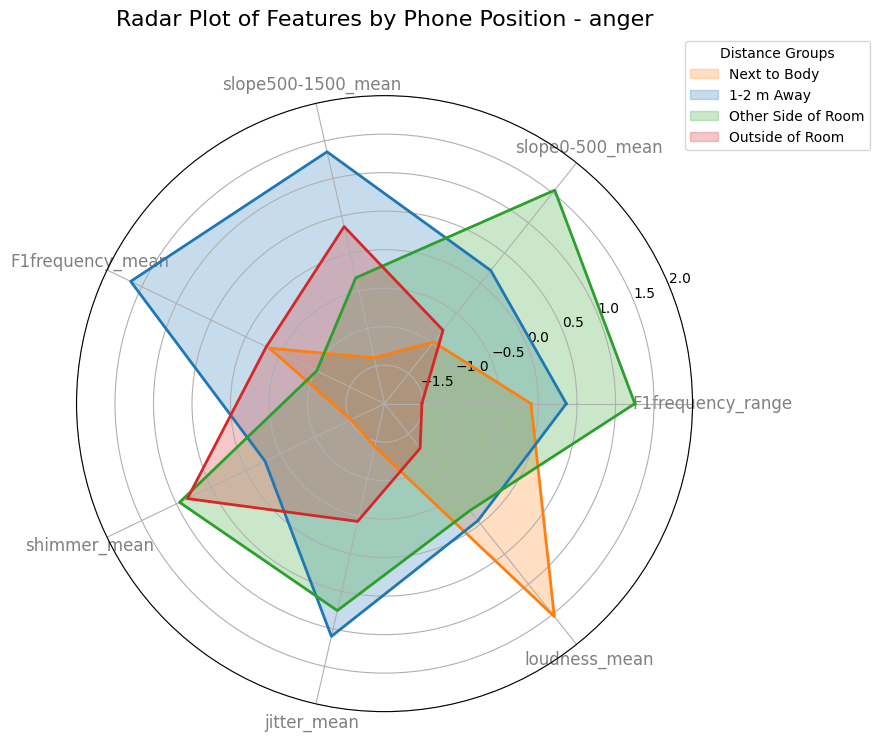
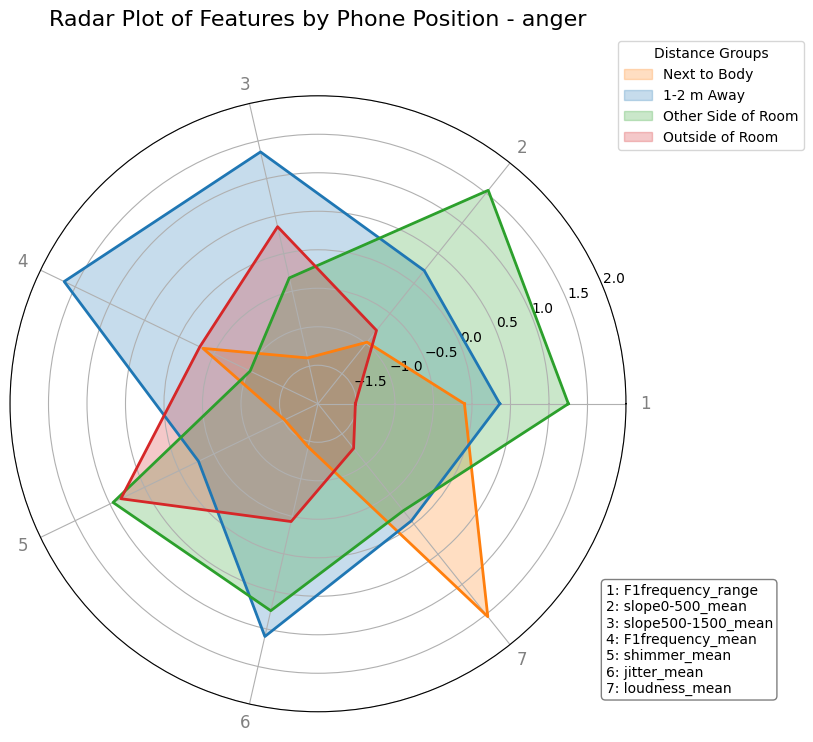
added plots
1. low and high arousal per distance radar plots
2. adjust the axis labels

diff --git a/radarPlot.py b/radarPlot.py
@@ -73,11 +73,14 @@ plt.tight_layout()
 plt.savefig(os.path.join(results_folder, 'heatmap_feature_averages.png'), bbox_inches='tight')
 plt.close()
 
-def create_and_save_radar_plot(data, categories, title, filename):
+def create_radar_plot_emotion(data, categories, title, filename):
     num_vars = len(categories)
     angles = [n / float(num_vars) * 2 * pi for n in range(num_vars)]
     angles += angles[:1]  # Complete the circle
     
+    # Number the axes
+    axis_labels = list(range(1, len(categories) + 1))
+
     fig, ax = plt.subplots(figsize=(8, 6), subplot_kw=dict(polar=True))
     unique_categories = data[category_column].unique()
     colors = plt.cm.tab10(range(len(unique_categories)))
@@ -89,11 +92,19 @@ def create_and_save_radar_plot(data, categories, title, filename):
         ax.fill(angles, values, alpha=0.25, color=color, label=row[category_column])
         ax.plot(angles, values, linewidth=2, color=color)
 
-    plt.xticks(angles[:-1], categories, color='grey', size=12)
+    plt.xticks(angles[:-1], axis_labels, color='grey', size=12)
     ax.yaxis.grid(True)
     ax.set_ylim(-2.2, 2) # Adjust based on the data
     plt.title(title, size=16, y=1.1)
-    plt.legend(loc='upper right', bbox_to_anchor=(1.3, 1.1))
+    
+    # legend for emotions
+    plt.legend(loc='upper right', bbox_to_anchor=(1.3, 1.1)) 
+    
+    # legend for features
+    legend_elements = [f"{i}: {category}" for i, category in enumerate(categories, 1)]
+    legend_text = "\n".join(legend_elements)
+    plt.gcf().text(0.8, 0.2, legend_text, fontsize=10, va='center', bbox=dict(boxstyle="round", facecolor="white", alpha=0.5))
+
     plt.savefig(os.path.join(results_folder, filename),bbox_inches='tight')
     plt.close()
 
@@ -111,7 +122,7 @@ groupings = {
 # Generate radar plots for each grouping
 for group_name, emotions in groupings.items():
     group_data = normalized_data[normalized_data[category_column].isin(emotions)]
-    create_and_save_radar_plot(
+    create_radar_plot_emotion(
         group_data, features, f"Radar Plot: {group_name}", f"radar_plot_{group_name.lower().replace(' ', '_')}.png"
     )
 
@@ -163,6 +174,9 @@ def create_radar_plot_distance(data, categories, title, filename):
     angles = [n / float(num_vars) * 2 * pi for n in range(num_vars)]
     angles += angles[:1] 
 
+    # Number the axes
+    axis_labels = list(range(1, len(categories) + 1))
+
     # Sorting the groups to control legend order
     sorted_data = data.sort_values(by='distance_group', key=lambda x: x.map({
         'Next to Body': 1,
@@ -181,11 +195,17 @@ def create_radar_plot_distance(data, categories, title, filename):
         ax.plot(angles, values, linewidth=2, color=colors[i])
 
 
-    plt.xticks(angles[:-1], categories, color='grey', size=12)
+    plt.xticks(angles[:-1], axis_labels, color='grey', size=12)
     ax.yaxis.grid(True)
     ax.set_ylim(-2, 1.7) # Adjust based on the data
     plt.title(title, size=16, y=1.1)
     plt.legend(loc='upper right', bbox_to_anchor=(1.3, 1.1), title="Distance Groups")
+
+    # legend for features
+    legend_elements = [f"{i}: {category}" for i, category in enumerate(categories, 1)]
+    legend_text = "\n".join(legend_elements)
+    plt.gcf().text(0.8, 0.2, legend_text, fontsize=10, va='center', bbox=dict(boxstyle="round", facecolor="white", alpha=0.5))
+
     plt.savefig(os.path.join(results_folder, filename), bbox_inches='tight')
     plt.close()
 
@@ -197,10 +217,13 @@ create_radar_plot_distance(
 )
 
 # Function to create radar plot for a single emotion
-def create_emotion_distance_radar(data, emotion, categories, title, filename):
+def create_radar_distance_per_emotion(data, emotion, categories, title, filename):
     num_vars = len(categories)
     angles = [n / float(num_vars) * 2 * pi for n in range(num_vars)]
     angles += angles[:1]
+
+    # Number the axes
+    axis_labels = list(range(1, len(categories) + 1))
 
     # Sorting the groups to control legend order
     sorted_data = data.sort_values(by='distance_group', key=lambda x: x.map({
@@ -219,11 +242,17 @@ def create_emotion_distance_radar(data, emotion, categories, title, filename):
         ax.fill(angles, values, alpha=0.25, color=colors[i], label=row['distance_group'])
         ax.plot(angles, values, linewidth=2, color=colors[i])
 
-    plt.xticks(angles[:-1], categories, color='grey', size=12)
+    plt.xticks(angles[:-1], axis_labels, color='grey', size=12)
     ax.yaxis.grid(True)
     ax.set_ylim(-2, 2)  # Adjust based on the data
     plt.title(f"{title} - {emotion}", size=16, y=1.1)
     plt.legend(loc='upper right', bbox_to_anchor=(1.3, 1.1), title="Distance Groups")
+    
+    # legend for features
+    legend_elements = [f"{i}: {category}" for i, category in enumerate(categories, 1)]
+    legend_text = "\n".join(legend_elements)
+    plt.gcf().text(0.8, 0.2, legend_text, fontsize=10, va='center', bbox=dict(boxstyle="round", facecolor="white", alpha=0.5))
+
     plt.savefig(os.path.join(results_folder, filename), bbox_inches='tight')
     plt.close()
 
@@ -244,7 +273,7 @@ for emotion in unique_emotions:
     normalized_emotion_data = pd.concat([emotion_distance_group_data['distance_group'], normalized_emotion_features], axis=1)
 
     # Create radar plot for the emotion
-    create_emotion_distance_radar(
+    create_radar_distance_per_emotion(
         normalized_emotion_data,
         emotion,
         features,
@@ -301,3 +330,91 @@ scatter_plot_gemaps(
     "Scatter Plot of GeMAPS Features (Colored by Emotion, Shaped by Distance)", 
     "scatter_plot_gemaps_emotion_distance.png"
 )
+
+def create_radar_emotions_per_distance(data, categories, distance_group, title, filename):
+    num_vars = len(categories)
+    angles = [n / float(num_vars) * 2 * pi for n in range(num_vars)]
+    angles += angles[:1]  # Complete the circle
+
+    # Number the axes
+    axis_labels = list(range(1, len(categories) + 1))
+
+    fig, ax = plt.subplots(figsize=(8, 6), subplot_kw=dict(polar=True))
+    unique_categories = data[category_column].unique()
+    colors = plt.cm.tab10(range(len(unique_categories)))
+
+    for i, row in data.iterrows():
+        values = row.drop(category_column).values.flatten().tolist()
+        values += values[:1]
+        color = colors[list(unique_categories).index(row[category_column])]
+        ax.fill(angles, values, alpha=0.25, color=color, label=row[category_column])
+        ax.plot(angles, values, linewidth=2, color=color)
+
+    plt.xticks(angles[:-1], axis_labels, color='grey', size=12)
+    ax.yaxis.grid(True)
+    ax.set_ylim(-2.2, 2)  # Adjust based on the data
+    plt.title(f"{title} - {distance_group}", size=16, y=1.1)
+    plt.legend(loc='upper right', bbox_to_anchor=(1.3, 1.1), title="Emotions")
+
+    # legend for features
+    legend_elements = [f"{i}: {category}" for i, category in enumerate(categories, 1)]
+    legend_text = "\n".join(legend_elements)
+    plt.gcf().text(0.8, 0.2, legend_text, fontsize=10, va='center', bbox=dict(boxstyle="round", facecolor="white", alpha=0.5))
+
+    plt.savefig(os.path.join(results_folder, filename), bbox_inches='tight')
+    plt.close()
+
+# Loop through each distance group and create a radar plot for each
+distance_groups = data['distance_group'].unique()
+
+for group in distance_groups:
+    # Filter data for the specific distance group
+    group_data = data[data['distance_group'] == group]
+
+    # High Arousal Emotions
+    high_arousal_data = group_data[group_data[category_column].isin(groupings['High Arousal'])]
+    if not high_arousal_data.empty:
+        # Group by emotion and calculate mean feature values
+        high_arousal_grouped = high_arousal_data.groupby(category_column)[features].mean().reset_index()
+        
+        # Normalize the data for radar plotting
+        normalized_high_arousal_features = pd.DataFrame(
+            scaler.fit_transform(high_arousal_grouped[features]),
+            columns=features
+        )
+        normalized_high_arousal_data = pd.concat(
+            [high_arousal_grouped[category_column], normalized_high_arousal_features], axis=1
+        )
+
+        # Create radar plot for high arousal
+        create_radar_emotions_per_distance(
+            normalized_high_arousal_data,
+            features,
+            group,
+            "Radar Plot of Features by High Arousal Emotions",
+            f"radar_plot_high_arousal_{group.lower().replace(' ', '_')}.png"
+        )
+
+    # Low Arousal Emotions
+    low_arousal_data = group_data[group_data[category_column].isin(groupings['Low Arousal'])]
+    if not low_arousal_data.empty:
+        # Group by emotion and calculate mean feature values
+        low_arousal_grouped = low_arousal_data.groupby(category_column)[features].mean().reset_index()
+        
+        # Normalize the data for radar plotting
+        normalized_low_arousal_features = pd.DataFrame(
+            scaler.fit_transform(low_arousal_grouped[features]),
+            columns=features
+        )
+        normalized_low_arousal_data = pd.concat(
+            [low_arousal_grouped[category_column], normalized_low_arousal_features], axis=1
+        )
+
+        # Create radar plot for low arousal
+        create_radar_emotions_per_distance(
+            normalized_low_arousal_data,
+            features,
+            group,
+            "Radar Plot of Features by Low Arousal Emotions",
+            f"radar_plot_low_arousal_{group.lower().replace(' ', '_')}.png"
+        )
